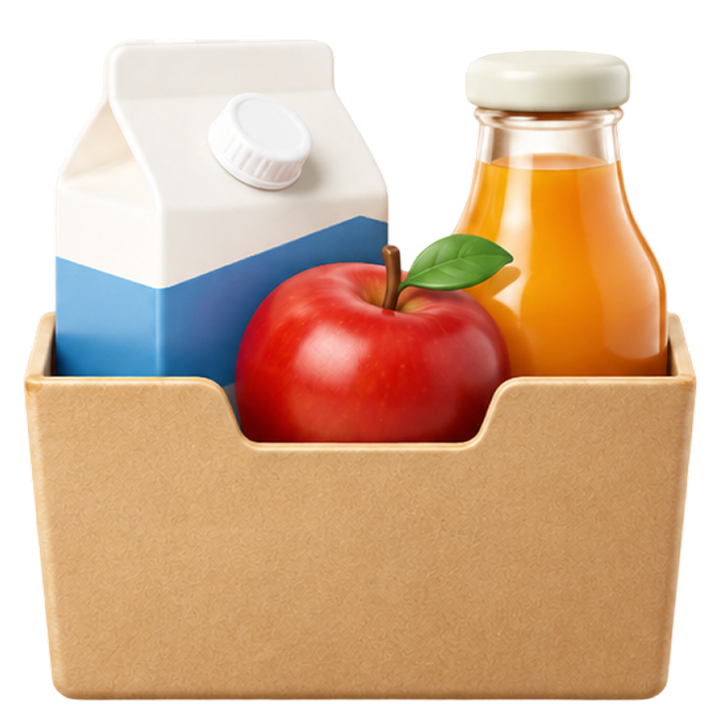
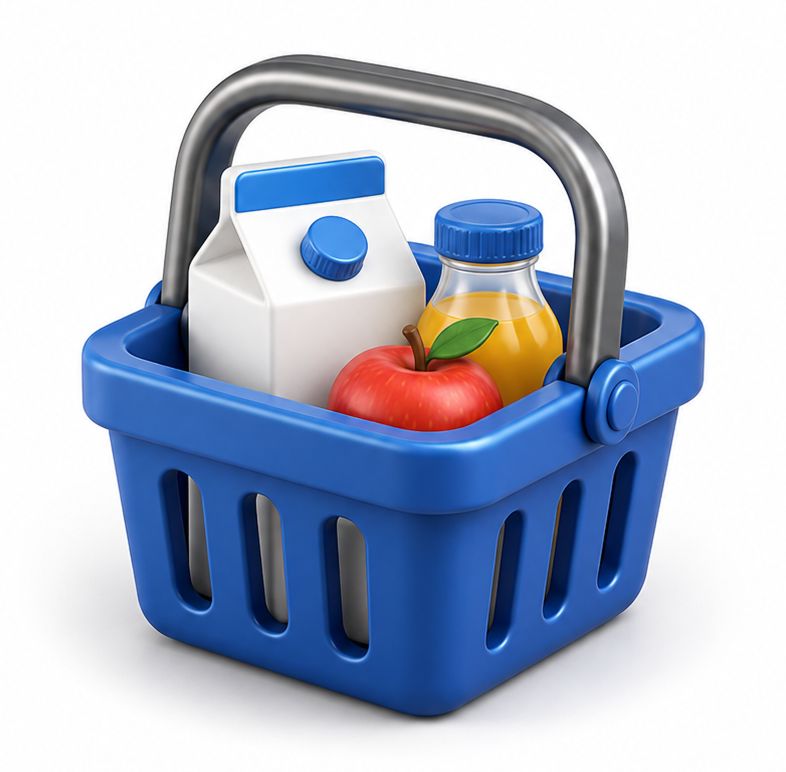
Snapshot latest local UI asset changes

diff --git a/public/index.html b/public/index.html
@@ -2065,7 +2065,6 @@
   gap: 6px;
 }
 
-/* 피그마: 14px 600 #0a58b5 */
 .support-help-label {
   font-size: 14px;
   font-weight: 600;
@@ -2076,11 +2075,10 @@
   animation: supportTextFadeUp 500ms 200ms cubic-bezier(0.16, 1, 0.3, 1) forwards;
 }
 
-/* 피그마: 24px 400 잠실체 */
 .support-help-title {
   margin: 0;
   font-family: 'Pretendard', Arial, sans-serif;
-  font-size: 20px;
+  font-size: 4.2vw;
   line-height: 1.2;
   font-weight: 600;
   letter-spacing: 0;
@@ -2090,7 +2088,6 @@
   animation: supportTextFadeUp 540ms 280ms cubic-bezier(0.16, 1, 0.3, 1) forwards;
 }
 
-/* 피그마: 50×50 원형 */
 .support-help-avatar-wrap {
   position: relative;
   width: 50px;
@@ -3054,7 +3051,7 @@ body.schedule-modal-open .page > :not(.schedule-modal) {
   align-items: stretch;
   justify-content: flex-start;
   padding-top: 2px;
-  gap: 10px;
+  gap: 12px;
 }
 
 .schedule-date-title {
@@ -3092,7 +3089,7 @@ body.schedule-modal-open .page > :not(.schedule-modal) {
   align-items: stretch;
   width: 100%;
   max-width: 118px;
-  margin: 4px auto;
+  /* margin: 4px auto; */
 }
 
 .schedule-pickup-metric {
@@ -3162,7 +3159,7 @@ body.schedule-modal-open .page > :not(.schedule-modal) {
 .schedule-pickup-metric-icon {
   display: block;
   width: auto;
-  height: 13px;
+  height: 16px;
   object-fit: contain;
 }
 
@@ -3191,11 +3188,11 @@ body.schedule-modal-open .page > :not(.schedule-modal) {
   -webkit-appearance: none;
   width: 100%;
   min-height: 30px;
-  border: 1px solid rgba(0, 81, 160, 0.22);
-  border-radius: 999px;
+  border: 0.5px solid #eaeaea;
+  border-radius: 8px;
   padding: 8px 7px;
   background: #fff;
-  color: #0051a0;
+  color: #222;
   display: inline-flex;
   align-items: center;
   justify-content: center;
@@ -3206,7 +3203,7 @@ body.schedule-modal-open .page > :not(.schedule-modal) {
   font-weight: 700;
   letter-spacing: -0.03em;
   white-space: nowrap;
-  box-shadow: 0 4px 12px rgba(0, 81, 160, 0.08);
+  box-shadow: 0 4px 12px rgba(0, 0, 0, 0.04);
   cursor: pointer;
   transition:
     transform 160ms cubic-bezier(0.22, 1, 0.36, 1),
@@ -3352,7 +3349,7 @@ body.schedule-modal-open .page > :not(.schedule-modal) {
 .schedule-empty-label {
   flex-shrink: 0;
   font-size: 13px;
-  font-weight: 500;
+  font-weight: 400;
   color: #9e9e9e;
   letter-spacing: -0.03em;
   white-space: nowrap;
@@ -3550,9 +3547,9 @@ body.has-results .result-panels {
   appearance: none;
   -webkit-appearance: none;
   width: 100%;
-  min-height: 154px;
+  /* min-height: 154px; */
   border: 1px solid rgba(15, 23, 42, 0.06);
-  border-radius: 28px;
+  border-radius: 22px;
   background: #fff;
   box-shadow:
     0 1px 0 rgba(255, 255, 255, 0.9) inset,
@@ -3561,8 +3558,8 @@ body.has-results .result-panels {
   display: flex;
   align-items: center;
   justify-content: space-between;
-  gap: 14px;
-  padding: 24px 20px 22px 22px;
+  /* gap: 14px; */
+  padding: 24px 16px 19px 18px;
   color: #222;
   text-align: left;
   cursor: pointer;
@@ -3616,10 +3613,10 @@ body.has-results .result-panels {
 .schedule-calendar-entry-title {
   display: inline-flex;
   align-items: center;
-  gap: 6px;
-  font-size: clamp(20px, 5.1vw, 34px);
+  /* gap: 6px; */
+  font-size: clamp(18px, 4.2vw, 34px);
   line-height: 1.08;
-  font-weight: 700;
+  font-weight: 600;
   letter-spacing: -0.04em;
   color: #111;
 }
@@ -3627,6 +3624,7 @@ body.has-results .result-panels {
 .schedule-calendar-entry-title-icon {
   font-size: 0.9em;
   line-height: 1;
+  display: none;
 }
 
 .schedule-calendar-entry-meta {
@@ -3639,9 +3637,9 @@ body.has-results .result-panels {
 
 .schedule-calendar-entry-date {
   font-family: 'Pretendard', Arial, sans-serif;
-  font-size: clamp(14px, 3.8vw, 19px);
+  font-size: clamp(12px, 3.1vw, 17px);
   line-height: 1.1;
-  font-weight: 700;
+  font-weight: 500;
   letter-spacing: -0.03em;
   color: #0051a0;
 }
@@ -3678,7 +3676,7 @@ body.has-results .result-panels {
 
 .schedule-calendar-entry-stat-label {
   font-family: 'Pretendard', Arial, sans-serif;
-  font-size: 13px;
+  font-size: 12px;
   line-height: 1;
   font-weight: 500;
   letter-spacing: -0.02em;
@@ -3695,7 +3693,7 @@ body.has-results .result-panels {
 
 .schedule-calendar-entry-stat-num {
   font-family: 'Paperlogy', 'Pretendard', sans-serif;
-  font-size: 15px;
+  font-size: 13px;
   line-height: 1;
   font-weight: 700;
   color: #111;
@@ -3703,7 +3701,7 @@ body.has-results .result-panels {
 
 .schedule-calendar-entry-stat-unit {
   font-family: 'Pretendard', Arial, sans-serif;
-  font-size: 13px;
+  font-size: 12px;
   line-height: 1;
   font-weight: 500;
   color: #111;
@@ -3712,9 +3710,9 @@ body.has-results .result-panels {
 .schedule-preview-stack {
   position: relative;
   --schedule-preview-front-right: 0px;
-  width: 92px;
+  /* width: 92px; */
   height: 78px;
-  flex: 0 0 92px;
+  /* flex: 0 0 92px; */
 }
 
 .schedule-preview-thumb {
@@ -4261,7 +4259,7 @@ body.has-results .result-panels {
   const resultsEl = document.getElementById('results');
   const messageEl = document.getElementById('message');
   const storeNameEl = document.getElementById('storeName');
-  const prettyAlertEl = document.getElementById('prettyAlert');
+const prettyAlertEl = document.getElementById('prettyAlert');
 const prettyAlertDescEl = document.getElementById('prettyAlertDesc');
 const prettyAlertConfirmEl = document.getElementById('prettyAlertConfirm');
 const calendarGuideEl = document.getElementById('calendarGuide');